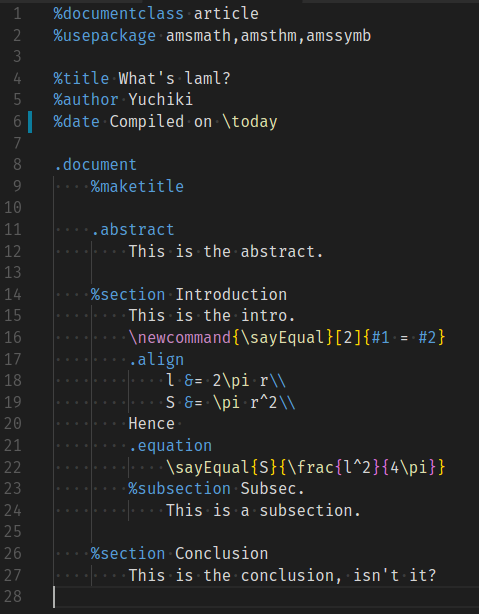
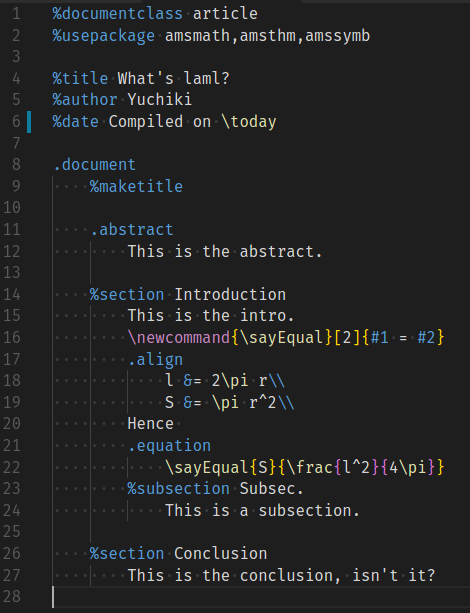
change two pictures to a picture of comparison of code

diff --git a/README.md b/README.md
@@ -1,21 +1,19 @@
 # Laml Converter
+Convert a laml source into a LaTeX source.
 
 ## What's this?
 A converter from **laml** source to LaTeX source.
+For example, the left laml file is converted into the right LaTeX file.
 
-For example, the following is a laml source.
-
-![source_code.laml](images/laml_source_code.png)
-
-The laml file above is converted into the following LaTex file.
-
-![source_code.tex](images/generated_tex.png)
+![comparison](images/comparison.png)
 
 This auto-generated LaTeX file can be compiled into a pdf file in usual ways.
 ![pdf](images/generated_pdf.png)
 
 ## What's laml? 
 Haml-like notation of LaTeX source.
+
+A [laml syntax highlighter for VSCode](https://github.com/yuchiki/laml-highlighter) is available.
 
 ## How to use?
 `laml < input.laml > output.tex`
